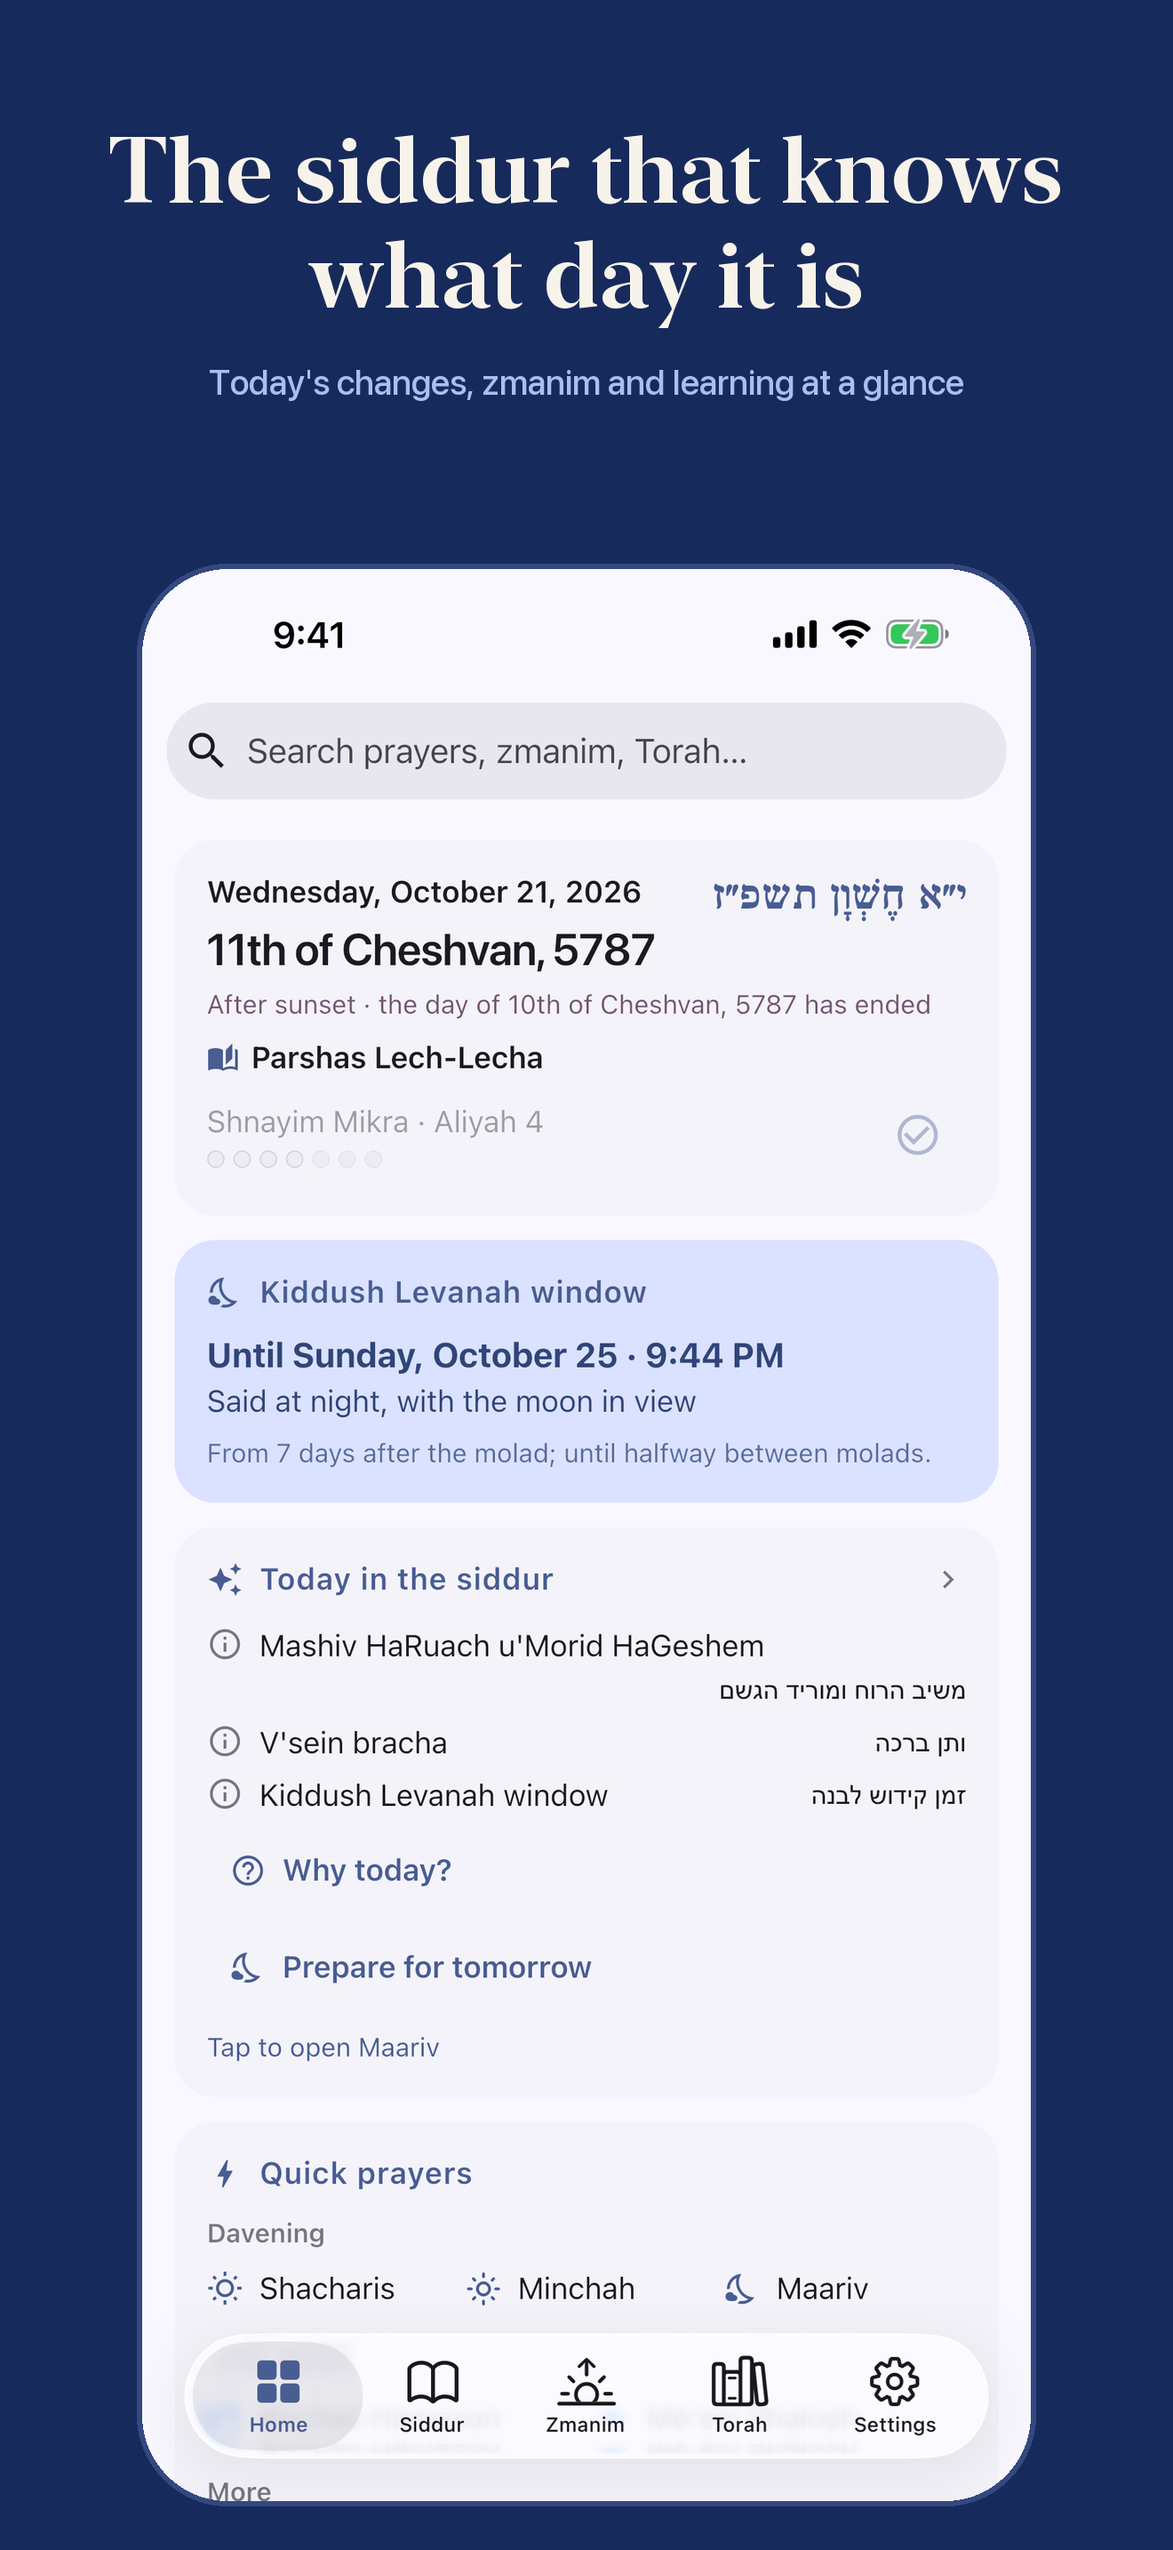
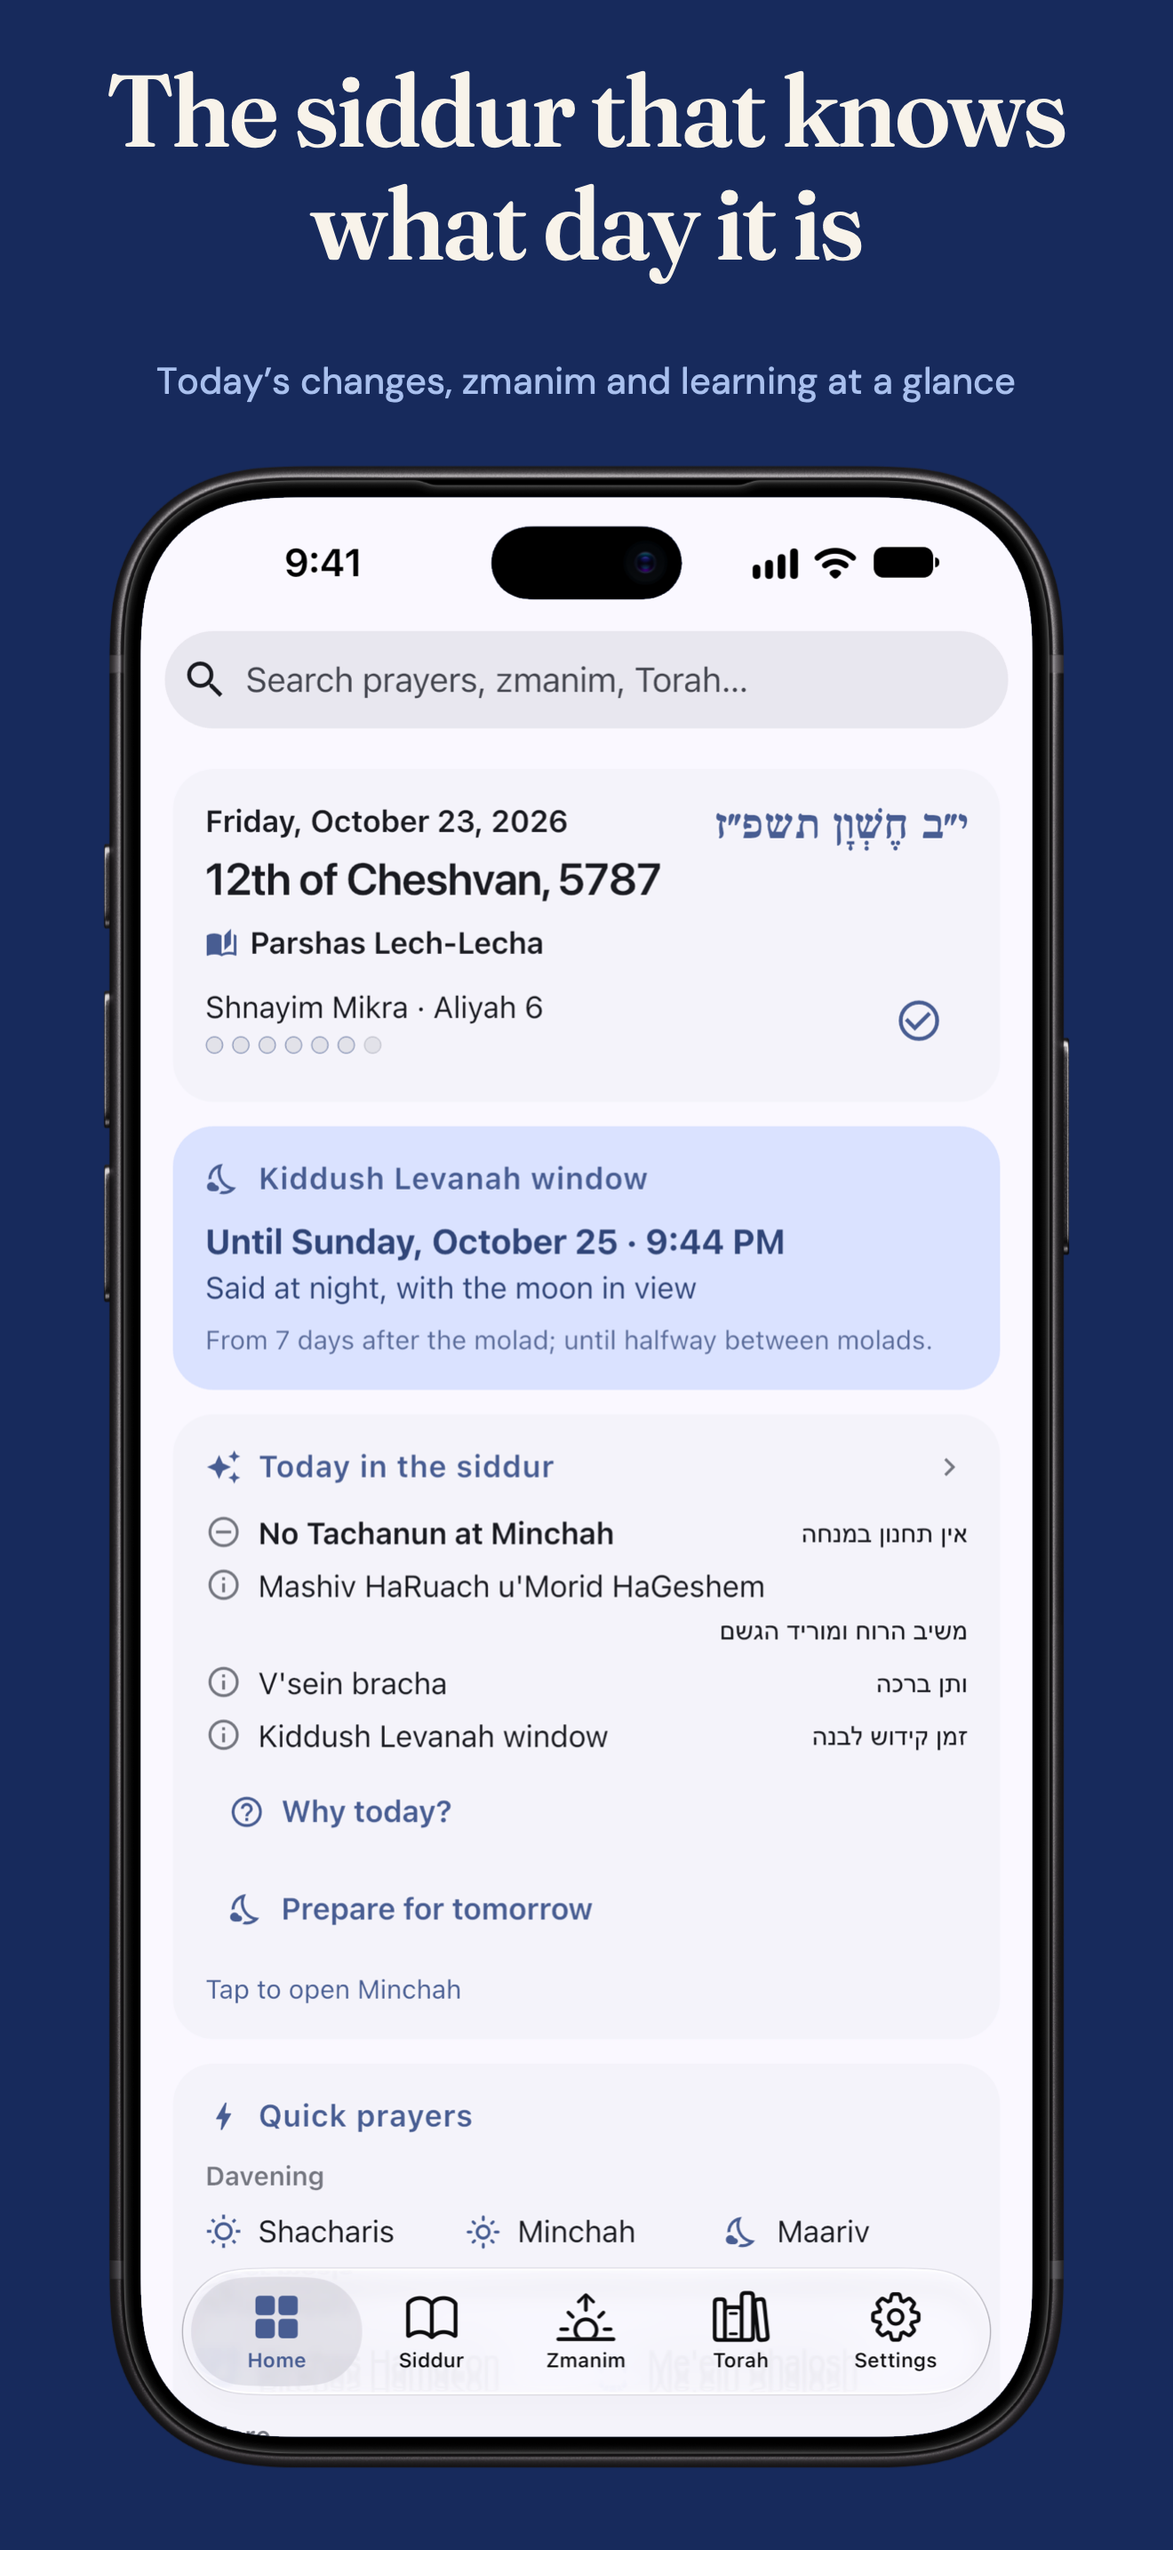
apple screenshots

Changed region(s): [[0.0621, 0.031, 0.9318, 0.993], [0.6212, 0.3103, 0.8076, 0.4034], [0.6833, 0.6517, 0.8386, 0.7137]]

diff --git a/tool/store/compose_screenshots.swift b/tool/store/compose_screenshots.swift
@@ -1,0 +1,149 @@
+// Composes the captioned App Store screenshots: each simulator capture in
+// Apple's product bezel (Apple Design Resources, used as is: no shadow, not
+// cropped or tilted), on the brand navy, with a caption above it.
+//
+//   swift tool/store/compose_screenshots.swift DEVICE BEZEL FONTDIR CAPTURES OUTDIR
+//
+// DEVICE is iphone (the iPhone 18 Pro bezel, for "iPhone with Dynamic Island
+// (medium display)", 1206×2622, the slot App Store Connect requires),
+// iphone-large (iPhone 18 Pro Max, "large display", 1320×2868), duo-outer
+// (1398×2034) or duo-inner (2007×2853). BEZEL is the matching portrait PNG from Apple's bezel disk
+// image. CAPTURES holds simulator screenshots named as in `captions` below
+// (store/app-store/raw/<device>/); FONTDIR holds Google Fonts' Fraunces.ttf
+// and DMSans.ttf variable fonts.
+import AppKit
+import CoreText
+import ImageIO
+import UniformTypeIdentifiers
+
+let args = CommandLine.arguments
+let device = args[1], bezelPath = args[2], fontDir = args[3], inDir = args[4], outDir = args[5]
+
+struct Device { let canvas: CGSize; let screen: CGRect }
+// The canvas is the App Store size; the screen is the bezel's opening, which
+// is exactly the size of that device's capture.
+let devices: [String: Device] = [
+  "iphone": Device(canvas: CGSize(width: 1206, height: 2622), screen: CGRect(x: 72, y: 69, width: 1206, height: 2622)),
+  "iphone-large": Device(canvas: CGSize(width: 1320, height: 2868), screen: CGRect(x: 75, y: 66, width: 1320, height: 2868)),
+  "duo-outer": Device(canvas: CGSize(width: 1398, height: 2034), screen: CGRect(x: 88, y: 80, width: 1398, height: 2034)),
+  "duo-inner": Device(canvas: CGSize(width: 2007, height: 2853), screen: CGRect(x: 120, y: 120, width: 2007, height: 2853)),
+]
+let captions: [(String, [String], String)] = [
+  ("01-home", ["The siddur that knows", "what day it is"], "Today’s changes, zmanim and learning at a glance"),
+  ("02-pray_shacharit", ["Hebrew and English,", "line by line"], "Ashkenaz, Sefard, Edot HaMizrach, Chabad and Koren"),
+  ("03-torah_gemara_read", ["The daf, as the", "Vilna Shas prints it"], "Gemara, Rashi and Tosafos, with English"),
+  ("04-zmanim", ["Zmanim for", "where you are"], "GRA, Magen Avraham or Baal HaTanya"),
+  ("05-siddur", ["Every tefillah,", "one tap away"], "Brachos, Tefillas HaDerech, Krias Shema al HaMitah"),
+  ("06-learning", ["Daily learning", "in one place"], "Daf Yomi, Mishnah Yomi, Rambam and more"),
+  ("07-calendar", ["A full Jewish", "calendar"], "Yamim Tovim, parshiyos and Hebrew dates"),
+  ("08-torah_tehillim", ["Tehillim by month", "or by week"], "Shir shel Yom, with your progress saved"),
+  ("09-pray_birkat", ["Birchas Hamazon for", "every simcha"], "Bris, Sheva Brachos and Pidyon HaBen"),
+]
+
+func rgb(_ hex: UInt32) -> CGColor {
+  CGColor(srgbRed: CGFloat((hex >> 16) & 0xff) / 255, green: CGFloat((hex >> 8) & 0xff) / 255,
+          blue: CGFloat(hex & 0xff) / 255, alpha: 1)
+}
+let ink = rgb(0x172a5c), paper = rgb(0xf8f3ea), fan = rgb(0xa9c0ee)
+
+func font(_ file: String, _ size: CGFloat, _ axes: [String: Double]) -> CTFont {
+  let url = URL(fileURLWithPath: "\(fontDir)/\(file)") as CFURL
+  let desc = (CTFontManagerCreateFontDescriptorsFromURL(url) as! [CTFontDescriptor])[0]
+  var vars: [NSNumber: NSNumber] = [:]
+  for (tag, v) in axes { vars[NSNumber(value: tag.unicodeScalars.reduce(UInt32(0)) { ($0 << 8) | $1.value })] = NSNumber(value: v) }
+  return CTFontCreateWithFontDescriptor(
+    CTFontDescriptorCreateCopyWithAttributes(desc, [kCTFontVariationAttribute: vars] as CFDictionary), size, nil)
+}
+func line(_ s: String, _ f: CTFont, _ c: CGColor, kern: CGFloat = 0) -> CTLine {
+  CTLineCreateWithAttributedString(NSAttributedString(string: s, attributes: [
+    .init(kCTFontAttributeName as String): f, .init(kCTForegroundColorAttributeName as String): c, .kern: kern]))
+}
+func width(_ l: CTLine) -> CGFloat { CGFloat(CTLineGetTypographicBounds(l, nil, nil, nil)) }
+func image(_ path: String) -> CGImage { NSImage(contentsOfFile: path)!.cgImage(forProposedRect: nil, context: nil, hints: nil)! }
+
+/// The bezel's screen opening as a clipping mask: the clear pixels connected
+/// to its center, so the capture's corners never show past the frame's.
+func openingMask(_ bezel: CGImage) -> CGImage {
+  let w = bezel.width, h = bezel.height
+  var rgba = [UInt8](repeating: 0, count: w * h * 4)
+  let c = CGContext(data: &rgba, width: w, height: h, bitsPerComponent: 8, bytesPerRow: w * 4,
+                    space: CGColorSpace(name: CGColorSpace.sRGB)!, bitmapInfo: CGImageAlphaInfo.premultipliedLast.rawValue)!
+  c.draw(bezel, in: CGRect(x: 0, y: 0, width: w, height: h))
+  var mask = [UInt8](repeating: 0, count: w * h)
+  var stack = [(w / 2) + (h / 2) * w]
+  while let i = stack.popLast() {
+    if mask[i] != 0 || rgba[i * 4 + 3] >= 128 { continue }
+    mask[i] = 255
+    let x = i % w
+    if x > 0 { stack.append(i - 1) }
+    if x < w - 1 { stack.append(i + 1) }
+    if i >= w { stack.append(i - w) }
+    if i < w * (h - 1) { stack.append(i + w) }
+  }
+  let provider = CGDataProvider(data: Data(mask) as CFData)!
+  return CGImage(width: w, height: h, bitsPerComponent: 8, bitsPerPixel: 8, bytesPerRow: w,
+                 space: CGColorSpaceCreateDeviceGray(), bitmapInfo: CGBitmapInfo(rawValue: 0),
+                 provider: provider, decode: nil, shouldInterpolate: true, intent: .defaultIntent)!
+}
+
+let d = devices[device]!
+let W = d.canvas.width, H = d.canvas.height
+let bezel = image(bezelPath)
+let mask = openingMask(bezel)
+let bezelSize = CGSize(width: bezel.width, height: bezel.height)
+// type scales with the canvas's width; the iPhone canvas is the reference
+let u = W / 1206
+
+for (name, head, sub) in captions {
+  let path = "\(inDir)/\(name).png"
+  guard FileManager.default.fileExists(atPath: path) else { print("skip \(name)"); continue }
+  let shot = image(path)
+  precondition(CGFloat(shot.width) == d.screen.width && CGFloat(shot.height) == d.screen.height,
+               "\(name): capture is \(shot.width)×\(shot.height), the bezel's screen is \(d.screen.size)")
+  let ctx = CGContext(data: nil, width: Int(W), height: Int(H), bitsPerComponent: 8, bytesPerRow: 0,
+                      space: CGColorSpace(name: CGColorSpace.sRGB)!, bitmapInfo: CGImageAlphaInfo.noneSkipLast.rawValue)!
+  ctx.interpolationQuality = .high
+  ctx.setFillColor(ink); ctx.fill(CGRect(origin: .zero, size: d.canvas))
+
+  // caption, centered; each line shrinks to fit the width if it must
+  let maxW = W * 0.88
+  func fitted(_ s: String, _ make: (CGFloat) -> CTFont, _ size: CGFloat, _ c: CGColor, kern: CGFloat) -> CTLine {
+    var size = size, l = line(s, make(size), c, kern: kern * size)
+    while width(l) > maxW { size -= 2; l = line(s, make(size), c, kern: kern * size) }
+    return l
+  }
+  let headSize = 104 * u, subSize = 38 * u
+  let display = { (s: CGFloat) in font("Fraunces.ttf", s, ["opsz": 72, "wght": 600, "SOFT": 0, "WONK": 0]) }
+  let body = { (s: CGFloat) in font("DMSans.ttf", s, ["opsz": 14, "wght": 450]) }
+  var y = H - 150 * u  // baseline of the first line, measured from the bottom (CG's origin)
+  for s in head {
+    let l = fitted(s, display, headSize, paper, kern: -0.02)
+    ctx.textPosition = CGPoint(x: (W - width(l)) / 2, y: y); CTLineDraw(l, ctx)
+    y -= headSize * 1.12
+  }
+  y -= subSize * 0.55
+  let sl = fitted(sub, body, subSize, fan, kern: 0)
+  ctx.textPosition = CGPoint(x: (W - width(sl)) / 2, y: y); CTLineDraw(sl, ctx)
+  let captionBottom = y - subSize * 1.6
+
+  // device: as large as fits under the caption, whole, centered
+  let bottomMargin = 70 * u
+  let scale = min((captionBottom - bottomMargin) / bezelSize.height, W * 0.9 / bezelSize.width)
+  let frame = CGRect(x: (W - bezelSize.width * scale) / 2, y: bottomMargin,
+                     width: bezelSize.width * scale, height: bezelSize.height * scale)
+  // the bezel's opening, in canvas coordinates (the bezel's own are top-down)
+  let screen = CGRect(x: frame.minX + d.screen.minX * scale,
+                      y: frame.maxY - d.screen.maxY * scale,
+                      width: d.screen.width * scale, height: d.screen.height * scale)
+  ctx.saveGState()
+  ctx.clip(to: frame, mask: mask)
+  ctx.draw(shot, in: screen)
+  ctx.restoreGState()
+  ctx.draw(bezel, in: frame)
+
+  let url = URL(fileURLWithPath: "\(outDir)/\(name).png") as CFURL
+  let dest = CGImageDestinationCreateWithURL(url, UTType.png.identifier as CFString, 1, nil)!
+  CGImageDestinationAddImage(dest, ctx.makeImage()!, nil)
+  CGImageDestinationFinalize(dest)
+  print(name)
+}

diff --git a/tool/store/render_creative.swift b/tool/store/render_creative.swift
@@ -1,8 +1,10 @@
 // Renders the App Store creative assets: product page header (21:9) and
 // search results (3:2). Usage:
-//   swift tool/store/render_creative.swift FONTDIR store/app-store/raw/iphone/01-home.png store/app-store/creative [guides]
+//   swift tool/store/render_creative.swift FONTDIR store/app-store/raw/iphone-6.3/01-home.png store/app-store/creative BEZEL [guides]
 // FONTDIR holds Google Fonts' Fraunces.ttf and DMSans.ttf variable fonts and
-// assets/fonts/Fraunces-Amud.ttf. "guides" draws the safe areas instead.
+// assets/fonts/Fraunces-Amud.ttf. The screenshot is an iPhone 18 Pro capture
+// (1206×2622) and BEZEL Apple's "iPhone 18 Pro - Black - Portrait.png" (Apple
+// Design Resources), used as is. "guides" draws the safe areas instead.
 import AppKit
 import CoreText
 import ImageIO
@@ -10,7 +12,8 @@ import UniformTypeIdentifiers
 
 let args = CommandLine.arguments
 let fontDir = args[1], shotPath = args[2], outDir = args[3]
-let guides = args.count > 4 && args[4] == "guides"
+let bezelPath = args[4]
+let guides = args.count > 5 && args[5] == "guides"
 
 func rgb(_ hex: UInt32, _ a: CGFloat = 1) -> CGColor {
   CGColor(srgbRed: CGFloat((hex >> 16) & 0xff) / 255, green: CGFloat((hex >> 8) & 0xff) / 255,
@@ -158,6 +161,31 @@ func background(_ ctx: CGContext, w: CGFloat, h: CGFloat, horizon: CGFloat, cx: 
   }
 }
 
+/// The bezel's screen opening as a clipping mask: the clear pixels connected
+/// to its center, so the capture's corners never show past the frame's.
+func openingMask(_ bezel: CGImage) -> CGImage {
+  let w = bezel.width, h = bezel.height
+  var rgba = [UInt8](repeating: 0, count: w * h * 4)
+  let c = CGContext(data: &rgba, width: w, height: h, bitsPerComponent: 8, bytesPerRow: w * 4,
+                    space: CGColorSpace(name: CGColorSpace.sRGB)!, bitmapInfo: CGImageAlphaInfo.premultipliedLast.rawValue)!
+  c.draw(bezel, in: CGRect(x: 0, y: 0, width: w, height: h))
+  var mask = [UInt8](repeating: 0, count: w * h)
+  var stack = [(w / 2) + (h / 2) * w]
+  while let i = stack.popLast() {
+    if mask[i] != 0 || rgba[i * 4 + 3] >= 128 { continue }
+    mask[i] = 255
+    let x = i % w
+    if x > 0 { stack.append(i - 1) }
+    if x < w - 1 { stack.append(i + 1) }
+    if i >= w { stack.append(i - w) }
+    if i < w * (h - 1) { stack.append(i + w) }
+  }
+  return CGImage(width: w, height: h, bitsPerComponent: 8, bitsPerPixel: 8, bytesPerRow: w,
+                 space: CGColorSpaceCreateDeviceGray(), bitmapInfo: CGBitmapInfo(rawValue: 0),
+                 provider: CGDataProvider(data: Data(mask) as CFData)!, decode: nil, shouldInterpolate: true,
+                 intent: .defaultIntent)!
+}
+
 func drawGuide(_ ctx: CGContext, _ r: CGRect) {
   guard guides else { return }
   ctx.setStrokeColor(rgb(0x00ff00)); ctx.setLineWidth(6); ctx.stroke(r)
@@ -197,34 +225,23 @@ do {
   draw(ctx, sub[0], x: x + 6, baseline: 1500)
   draw(ctx, sub[1], x: x + 6, baseline: 1500 + 86)
 
-  // phone, right
+  // phone, right: the capture in Apple's bezel, as is (no shadow), its
+  // corners clipped to the bezel's opening
   let shot = NSImage(contentsOfFile: shotPath)!.cgImage(forProposedRect: nil, context: nil, hints: nil)!
-  let screenW: CGFloat = 820
-  let screenH = screenW * CGFloat(shot.height) / CGFloat(shot.width)
-  let bezel: CGFloat = 34
-  let screen = CGRect(x: 2160, y: 390, width: screenW, height: screenH)
-  let body = screen.insetBy(dx: -bezel, dy: -bezel)
-  let radius: CGFloat = screenW * 0.135
+  let bezel = NSImage(contentsOfFile: bezelPath)!.cgImage(forProposedRect: nil, context: nil, hints: nil)!
+  let opening = CGRect(x: 72, y: 69, width: 1206, height: 2622)  // the bezel's screen, from the top
+  precondition(shot.width == Int(opening.width) && shot.height == Int(opening.height), "an iPhone 18 Pro capture")
+  let scale: CGFloat = 0.68
+  let frame = CGRect(x: 2110, y: 330, width: CGFloat(bezel.width) * scale, height: CGFloat(bezel.height) * scale)
   ctx.saveGState()
-  ctx.setShadow(offset: CGSize(width: 0, height: 40), blur: 120, color: rgb(0x050a1a, 0.6))
-  ctx.addPath(CGPath(roundedRect: body, cornerWidth: radius + bezel, cornerHeight: radius + bezel, transform: nil))
-  ctx.setFillColor(rgb(0x0b0f1a)); ctx.fillPath()
+  // the context is flipped; draw the images upright
+  ctx.translateBy(x: 0, y: frame.maxY + frame.minY); ctx.scaleBy(x: 1, y: -1)
+  ctx.clip(to: frame, mask: openingMask(bezel))
+  ctx.draw(shot, in: CGRect(x: frame.minX + opening.minX * scale, y: frame.maxY - opening.maxY * scale,
+                            width: opening.width * scale, height: opening.height * scale))
+  ctx.resetClip()
+  ctx.draw(bezel, in: frame)
   ctx.restoreGState()
-  ctx.addPath(CGPath(roundedRect: body.insetBy(dx: 5, dy: 5), cornerWidth: radius + bezel - 5,
-                     cornerHeight: radius + bezel - 5, transform: nil))
-  ctx.setStrokeColor(rgb(0x4a5a80)); ctx.setLineWidth(6); ctx.strokePath()
-  ctx.saveGState()
-  ctx.addPath(CGPath(roundedRect: screen, cornerWidth: radius, cornerHeight: radius, transform: nil))
-  ctx.clip()
-  // the context is flipped; flip the image back
-  ctx.translateBy(x: 0, y: screen.maxY + screen.minY); ctx.scaleBy(x: 1, y: -1)
-  ctx.draw(shot, in: screen)
-  ctx.restoreGState()
-  // Dynamic Island
-  let island = CGRect(x: screen.midX - screenW * 0.155, y: screen.minY + screenW * 0.03,
-                      width: screenW * 0.31, height: screenW * 0.092)
-  ctx.addPath(CGPath(roundedRect: island, cornerWidth: island.height / 2, cornerHeight: island.height / 2, transform: nil))
-  ctx.setFillColor(rgb(0x000000)); ctx.fillPath()
 
   drawGuide(ctx, safe)
   save(ctx, guides ? "search-guides.png" : "search-results-3840x2560.png")

diff --git a/store/app-store/metadata.md b/store/app-store/metadata.md
@@ -88,7 +88,8 @@ Texts come from Sefaria; the calendar and zmanim from a full port of Hebcal.
 
 | Folder | Size | Slot in App Store Connect |
 |---|---|---|
-| `iphone-6.9/` | 1320×2868 | iPhone 6.9" Display (used for all smaller iPhones) |
+| `iphone-6.3/` | 1206×2622 | iPhone with Dynamic Island (medium display): **required**; iPhone 18 Pro, 17, 16 and the like |
+| `iphone-6.9/` | 1320×2868 | iPhone with Dynamic Island (large display): iPhone 18 Pro Max, Air, Plus |
 | `ipad-13/` | 2064×2752 | iPad 13" Display (used for all smaller iPads) |
 | `watch/` | 422×514 | Apple Watch Ultra (used for all watch sizes) |
 | `raw/` | as captured | The same screens without captions, if you'd rather upload plain ones |
@@ -99,3 +100,5 @@ Texts come from Sefaria; the calendar and zmanim from a full port of Hebcal.
 The two creative assets follow Apple's Forest Explorer examples and keep their key art inside the safe areas of Apple's templates (header: the centred 1640×656; search results: the centred 2160×1024). `tool/store/render_creative.swift` redraws them; its first lines say how.
 
 App Store Connect takes up to 10 screenshots per device; the first three show in search results.
+
+The iPhone screenshots follow Apple's marketing guidelines (developer.apple.com/app-store/marketing/guidelines): the app as it runs, in Apple's own bezel (Apple Design Resources → Product Bezels, iPhone 18 Pro and Pro Max) used as is, with no shadow, cropping or tilt, and a status bar with full signal, Wi-Fi and battery. To redo them: `tool/store/capture_screens.sh` captures each screen on a simulator, and `tool/store/compose_screenshots.swift` adds the caption and bezel; each says how at its top.
